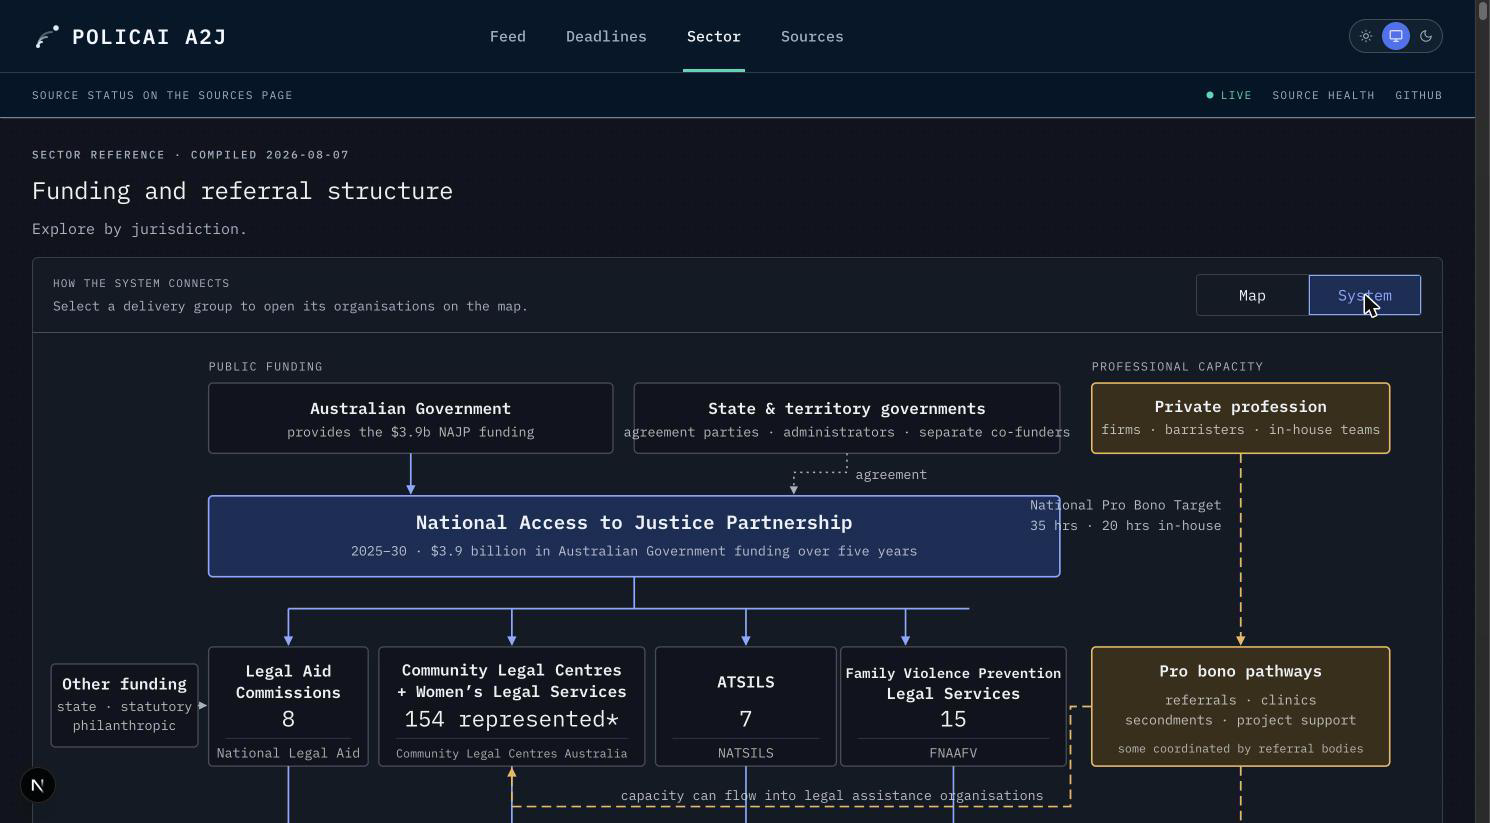
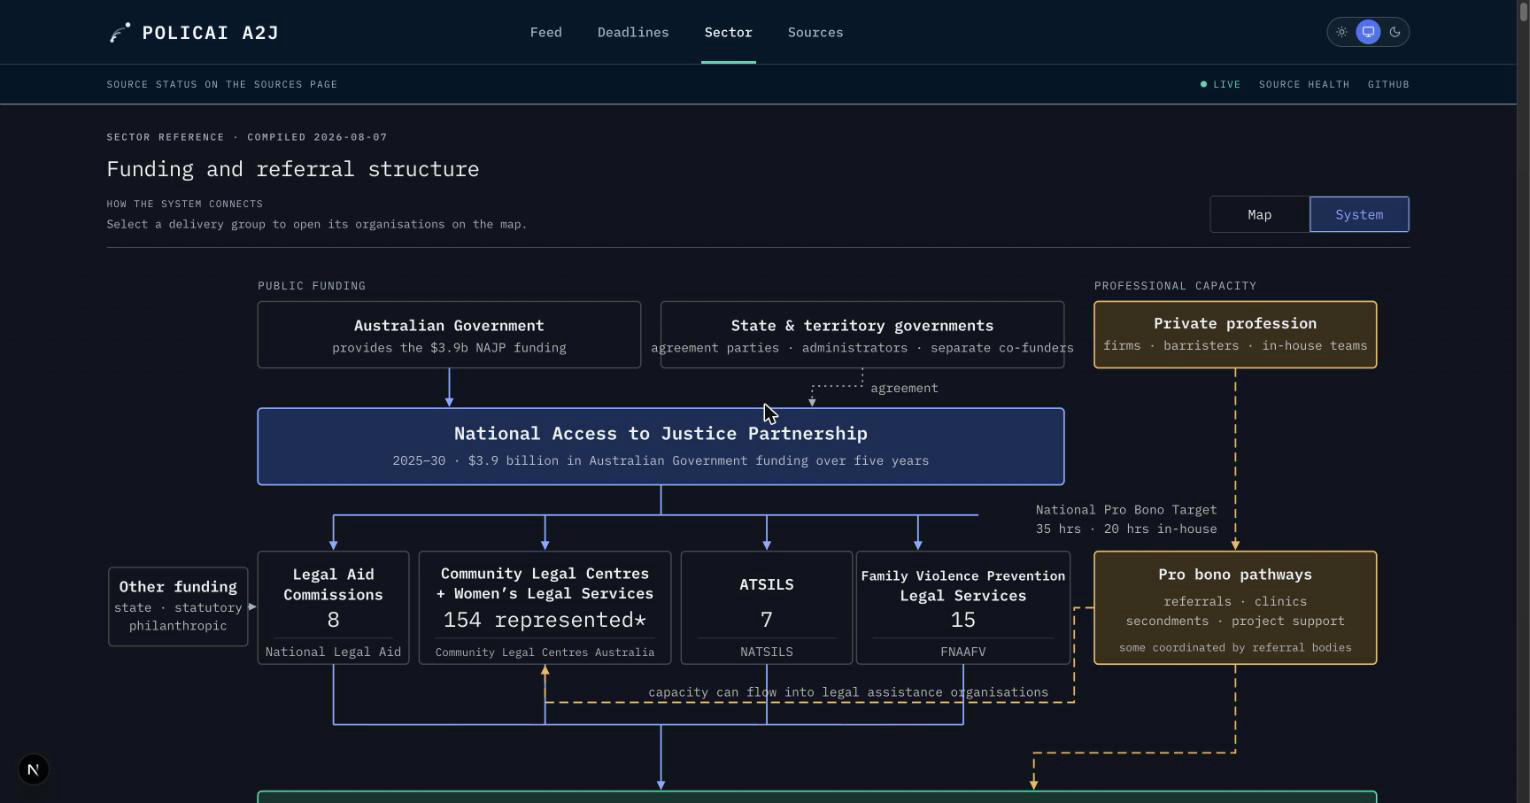
refine(sector): deframe the explorer into open page spreads
Response to feedback that both tabs still felt squashed inside a frame:

- remove the explorer card entirely; the header row closes with a print
  rule and both tabs sit directly on the page background
- the System diagram loses its second frame and uses the full container
  width
- the detail column is divided by a vertical rule and hairlines instead
  of a card
- drop the hero intro line that duplicated the explorer kicker
- move the National Pro Bono Target caption out of the NAJP node's edge

diff --git a/dashboard/app/globals.css b/dashboard/app/globals.css
@@ -1955,12 +1955,12 @@ main {
   stroke-width: 2;
 }
 
+/*
+ * The explorer is an open spread on the page, not a card: print rules divide
+ * it from the page and the detail column, and nothing else frames it.
+ */
 .sector-explorer {
   margin-top: 1.5rem;
-  border: 1px solid var(--border);
-  border-radius: 6px;
-  overflow: hidden;
-  background: var(--card);
 }
 
 .sector-hero-head .section-heading {
@@ -1977,7 +1977,7 @@ main {
   align-items: center;
   justify-content: space-between;
   gap: 1rem;
-  padding: 1rem 1.25rem;
+  padding-bottom: 1rem;
   border-bottom: 1px solid var(--rule);
 }
 
@@ -2032,16 +2032,19 @@ main {
 }
 
 .sector-system-panel {
-  padding: 1rem;
+  padding-top: 1.5rem;
 }
 
 .sector-system-panel .diagram {
   margin: 0;
 }
 
+/* The diagram sits directly on the page; the tabbed spread is its frame. */
 .sector-system-panel .diagram-frame {
   border: 0;
+  border-radius: 0;
   padding: 0;
+  background: transparent;
 }
 
 /*
@@ -2057,7 +2060,6 @@ main {
 
 .sector-map-detail {
   min-width: 0;
-  background: var(--card);
   border-left: 1px solid var(--rule);
 }
 
@@ -2117,8 +2119,7 @@ main {
   flex-direction: column;
   gap: 1rem;
   min-width: 0;
-  padding: 1.25rem;
-  background: var(--background);
+  padding: 1.5rem 2.5rem 0 0;
 }
 
 .sector-map-government {
@@ -2258,8 +2259,12 @@ main {
 .sector-breakdown,
 .sector-org-picker,
 .sector-selected-org {
-  padding: 1.1rem 1.25rem;
-  border-bottom: 1px solid var(--rule);
+  padding: 1.1rem 0 1.1rem 1.5rem;
+  border-bottom: 1px solid var(--rule-hair);
+}
+
+.sector-detail-swap > :last-child {
+  border-bottom: 0;
 }
 
 .sector-jurisdiction-head p {
@@ -2557,9 +2562,21 @@ main {
     grid-template-columns: minmax(0, 1fr);
   }
 
+  .sector-map-canvas {
+    padding-right: 0;
+  }
+
   .sector-map-detail {
+    margin-top: 1.5rem;
     border-top: 1px solid var(--rule);
     border-left: 0;
+  }
+
+  .sector-jurisdiction-head,
+  .sector-breakdown,
+  .sector-org-picker,
+  .sector-selected-org {
+    padding-left: 0;
   }
 }
 
@@ -2567,10 +2584,6 @@ main {
   .sector-explorer-head {
     align-items: stretch;
     flex-direction: column;
-  }
-
-  .sector-map-canvas {
-    padding: 0.75rem;
   }
 
   .sector-map-government {

diff --git a/dashboard/app/sector-diagram.tsx b/dashboard/app/sector-diagram.tsx
@@ -144,8 +144,8 @@ export default function SectorDiagram({
           <path className="d-flow d-flow-by" d="M140 335 H148" markerEnd="url(#sd-arrow)" />
 
           <path className="d-flow d-flow-pb" d="M1120 98 V278" markerEnd="url(#sd-arrow)" />
-          <text x="1102" y="151" textAnchor="end" className="d-n">National Pro Bono Target</text>
-          <text x="1102" y="170" textAnchor="end" className="d-n">35 hrs · 20 hrs in-house</text>
+          <text x="1102" y="243" textAnchor="end" className="d-n">National Pro Bono Target</text>
+          <text x="1102" y="262" textAnchor="end" className="d-n">35 hrs · 20 hrs in-house</text>
 
           <rect className="d-box d-box-pb" x="980" y="280" width="280" height="112" rx="4" />
           <text x="1120" y="308" textAnchor="middle" className="d-t">Pro bono pathways</text>

diff --git a/dashboard/app/sector/page.tsx b/dashboard/app/sector/page.tsx
@@ -52,7 +52,6 @@ export default async function SectorPage() {
         <header className="sector-hero-head">
           <p className="page-eyebrow">Sector reference · compiled {COMPILED}</p>
           <h1 id="sector-explorer-title" className="section-heading">Funding and referral structure</h1>
-          <p className="section-intro">Explore by jurisdiction.</p>
         </header>
         <SectorExplorer orgs={orgs} />
       </section>

diff --git a/docs/design/sector-jurisdiction-map-design-qa.md b/docs/design/sector-jurisdiction-map-design-qa.md
@@ -70,6 +70,23 @@
 - The map capture above was retaken after this pass; the System capture is
   unchanged from pass 3.
 
+### Pass 5 — deframe (both tabs still felt squashed)
+
+- The explorer card frame was removed entirely. Both tabs are open spreads on
+  the page: the kicker/tab header row closes with a print rule, the map and
+  the System diagram sit directly on the page background, and the detail
+  column is separated by a vertical rule with hairlines between its sections
+  instead of a card.
+- The System diagram lost its second frame (`.diagram-frame` border, card
+  background and padding are neutralised inside the explorer) and now uses
+  the full 1536 px container width.
+- The duplicated "Explore by jurisdiction." hero intro line was removed; the
+  explorer's own kicker carries it.
+- The "National Pro Bono Target" caption in the System diagram overlapped the
+  NAJP node's right edge; it moved below the node into clear space beside the
+  dashed pro bono flow it annotates.
+- Both captures above were retaken after this pass (dark, 1530 px).
+
 ## Functionality and accessibility
 
 - Map and System tabs switch panels.
